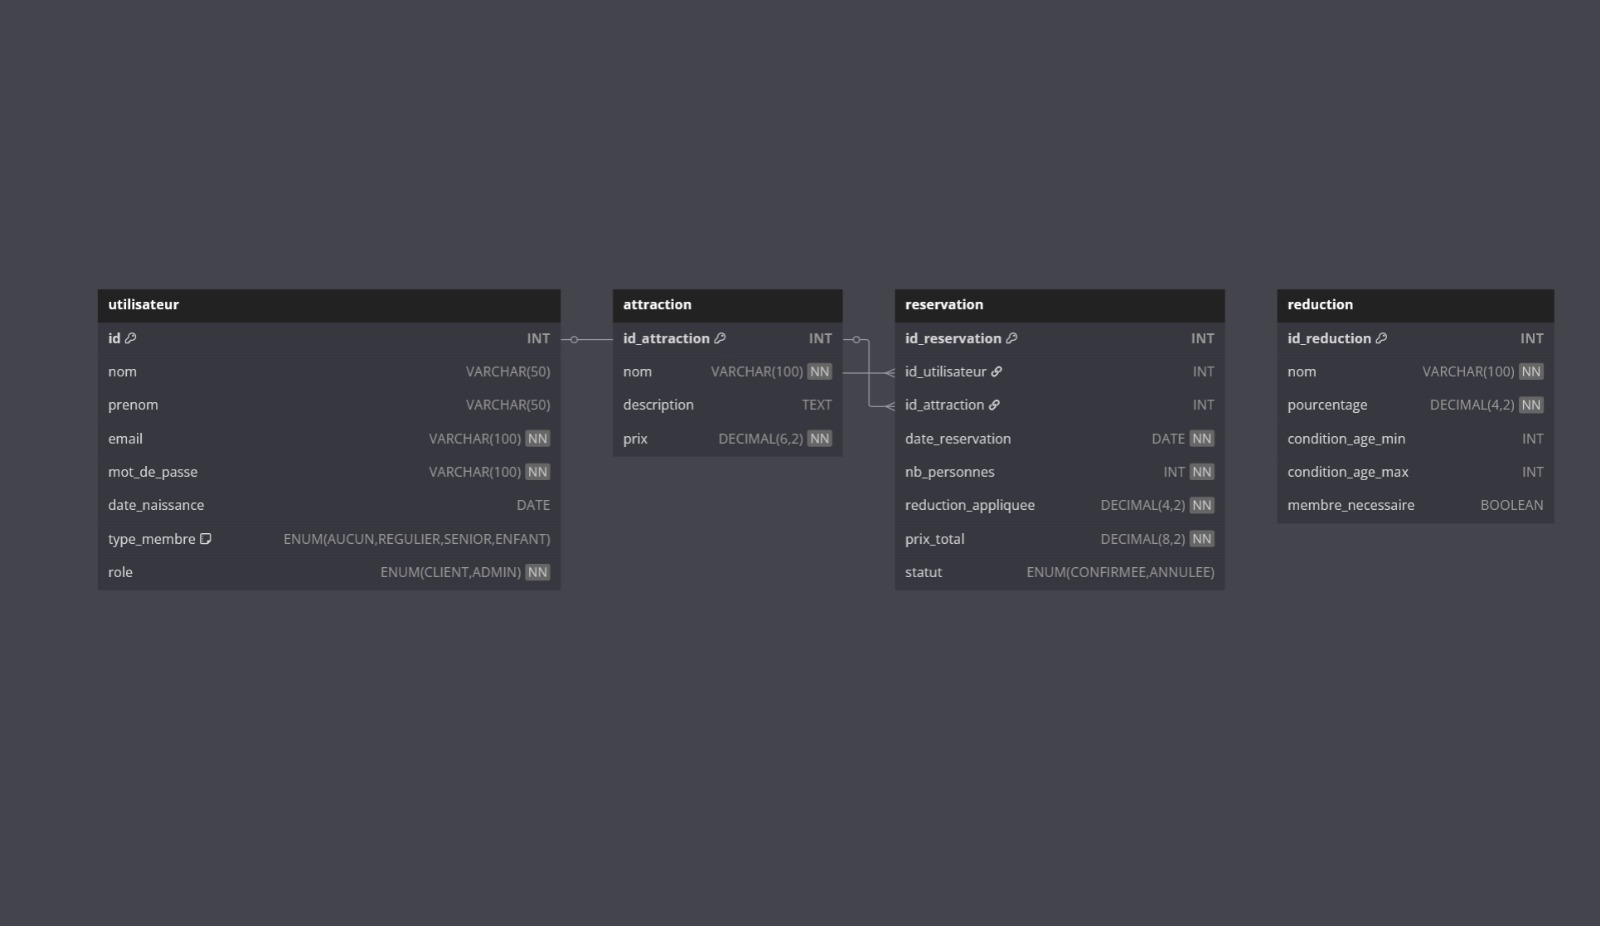
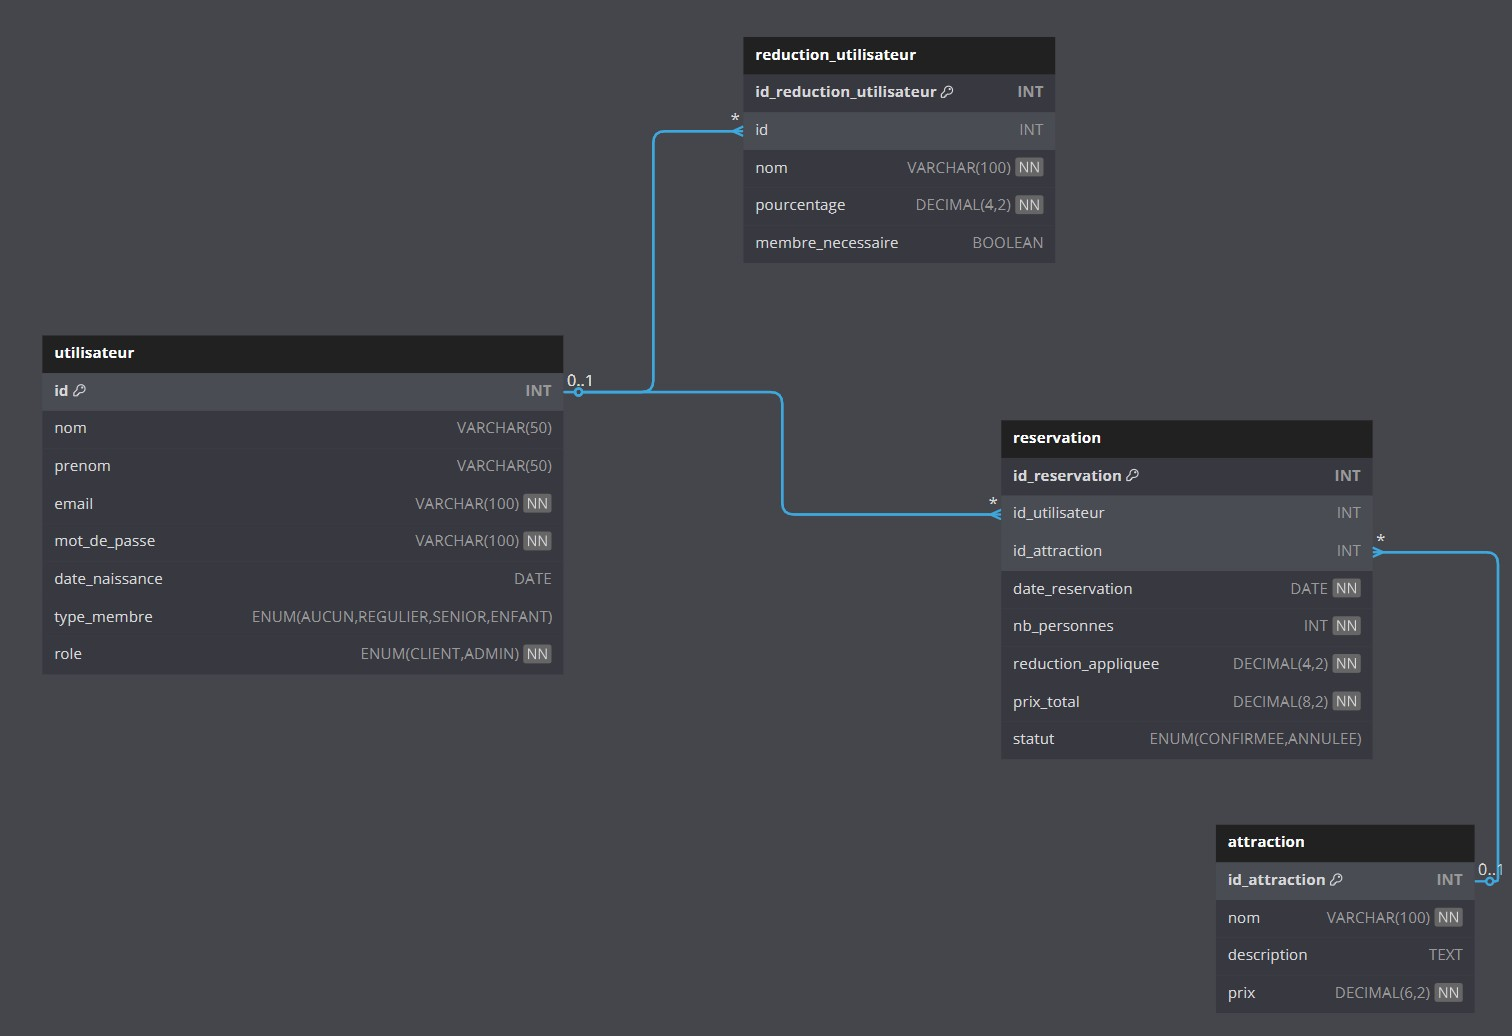
correction de la bdd et implémentation en sql

diff --git a/src/Main.java b/src/Main.java
@@ -2,7 +2,7 @@
 // click the <icon src="AllIcons.Actions.Execute"/> icon in the gutter.
 public class Main {
     public static void main(String[] args) {
-        System.out.printf("Hello and welcome!");
+        System.out.println("Hello and welcome!");
         System.out.println("Truc Machin");
     }
 }
